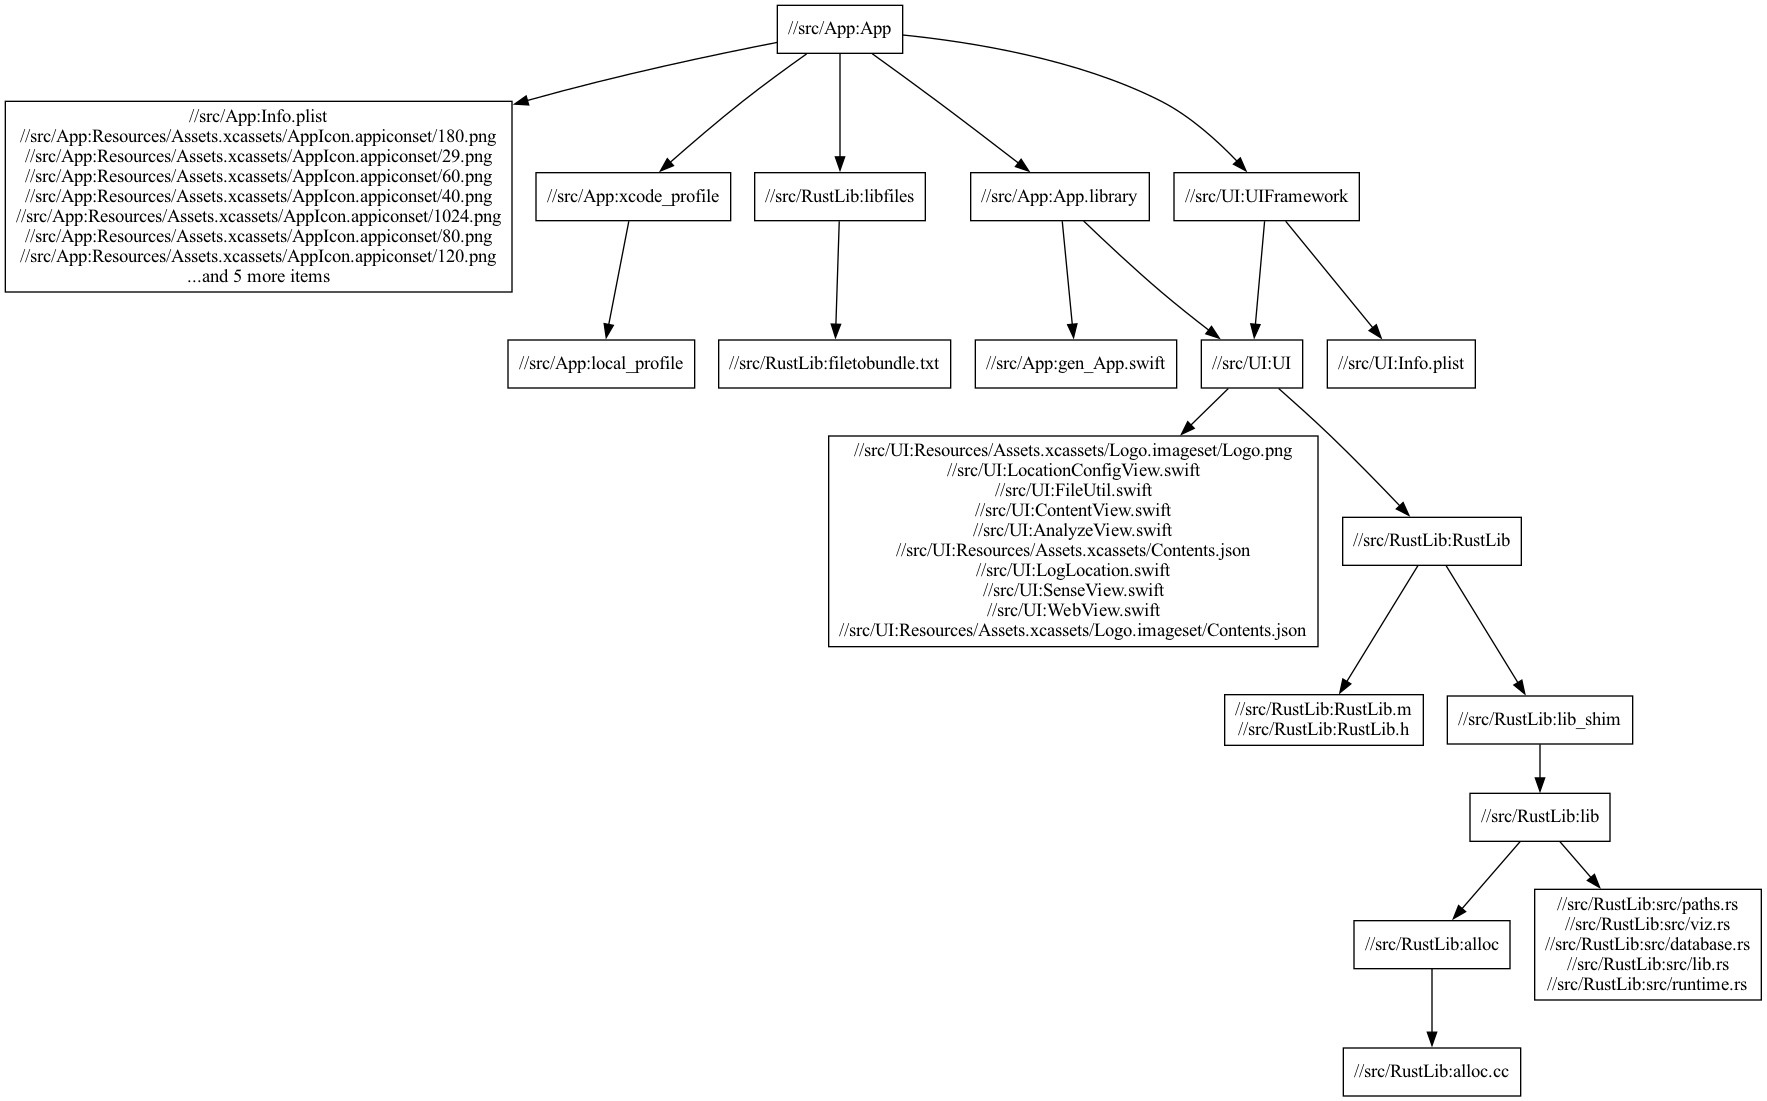
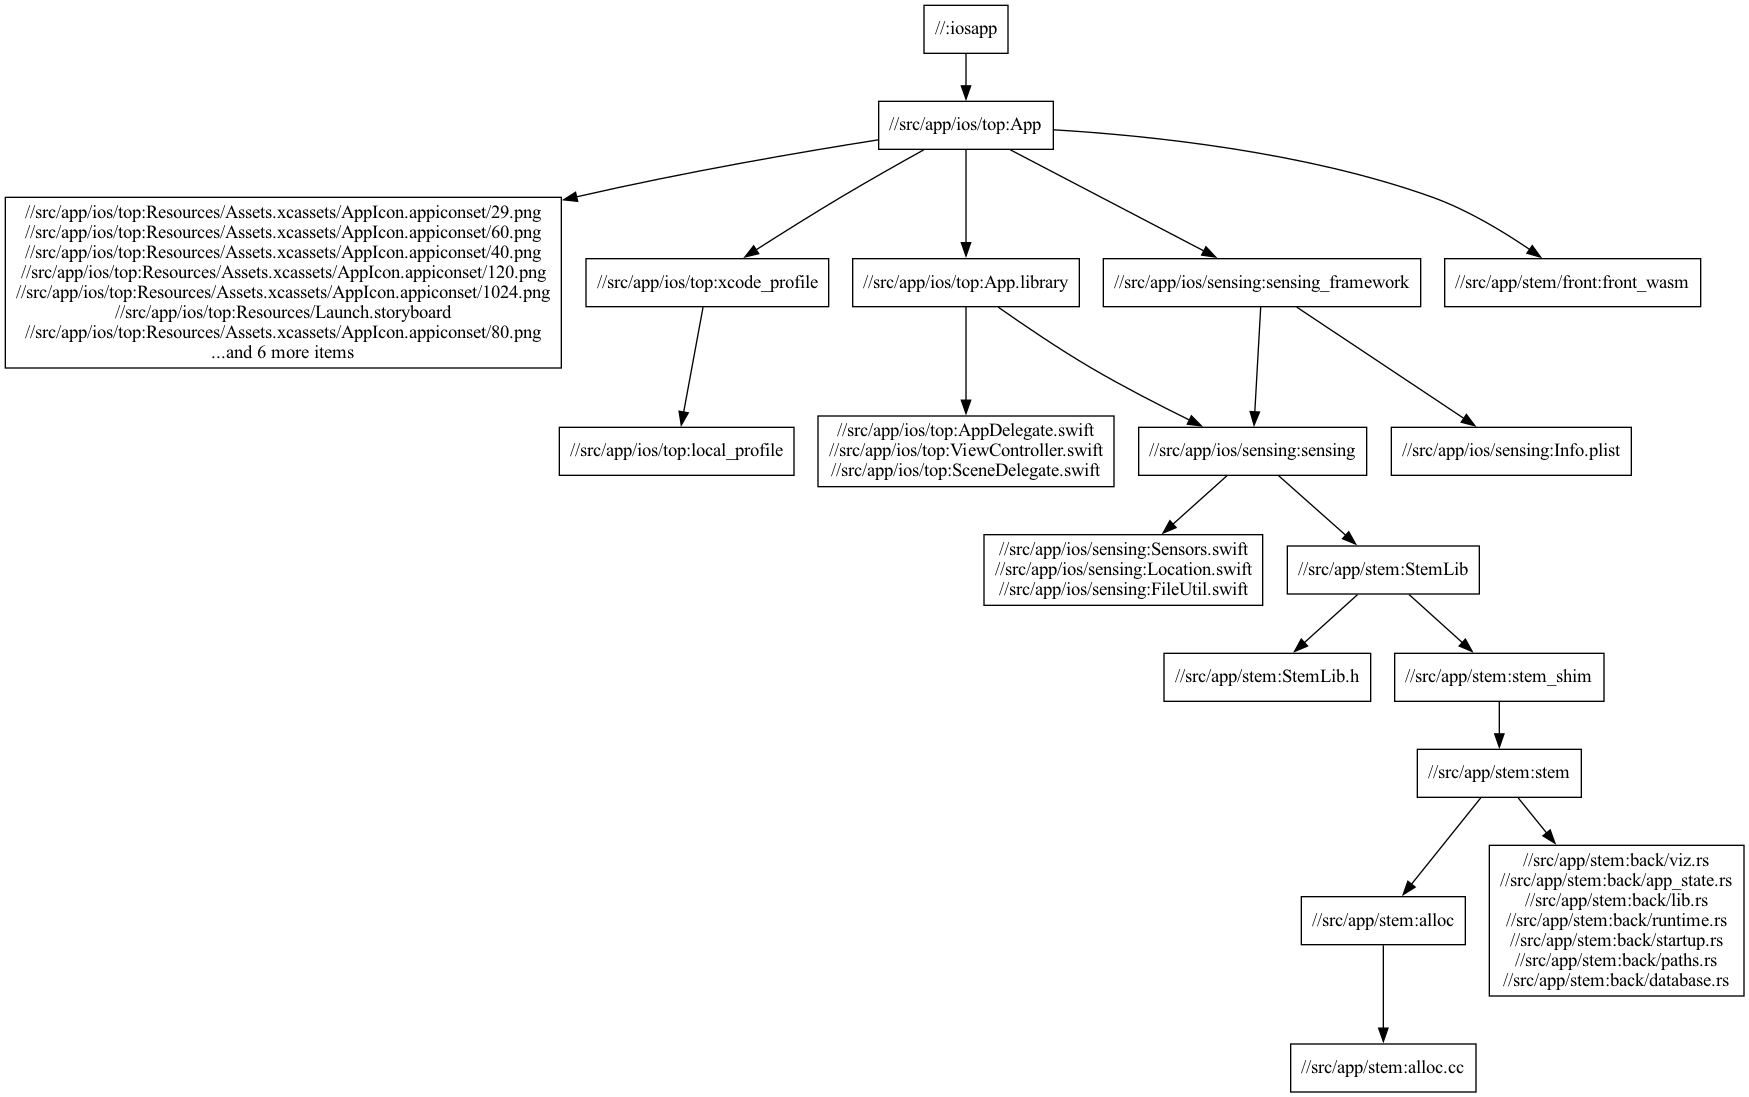
dev runner now copies dist.zip correctly

Changed region(s): [[0.0, 0.0, 1.0, 0.8988], [0.741, 0.9298, 0.8645, 1.0], [0.8336, 0.217, 0.9571, 0.2789]]

diff --git a/src/app/stem/dev/main.rs b/src/app/stem/dev/main.rs
@@ -1,5 +1,8 @@
 //! Runs the app backend and frontend locally
 
+use std::fs;
+use std::os::unix::fs::PermissionsExt;
+
 use tokio::signal::unix::{signal, SignalKind};
 
 extern crate stem;
@@ -13,20 +16,22 @@ async fn main() {
         Some(dirs[2].clone()),
         Some(dirs[3].clone()),
     );
-    // copy our bundle into the expected location
+
+    // Copy our bundle into the expected location
     let bundle_path = "src/app/stem/front/dist.zip";
-    println!("Bundle exists: {}", std::fs::metadata(bundle_path).is_ok());
-
-    //DEBUG
-    let paths = std::fs::read_dir("dev_instance/Bundle").unwrap();
-    for path in paths {
-        println!("Name: {}", path.unwrap().path().display())
-    }
-
     let dest = "dev_instance/Bundle/dist.zip";
+    println!("Bundle exists: {}", fs::metadata(bundle_path).is_ok());
+    println!("Copying...");
+    // This will fail if we didn't set writable permissions last time.
+    fs::copy(bundle_path, dest).unwrap();
+
+    // dist.zip is a genrule output, so it is read-only by default. We change it
+    // to writable so that future invocations of fs::copy will work if the
+    // sandbox is not cleared
+    fs::set_permissions(dest, fs::Permissions::from_mode(0o666)).unwrap();
     println!(
-        "Copy over success: {}",
-        std::fs::copy(bundle_path, dest).is_ok()
+        "Copied and set dist.zip permissions to: {:#o} (hopefully 0o100666)",
+        fs::metadata(dest).unwrap().permissions().mode()
     );
 
     // Finish startup now that our bundle is in the right spot
@@ -47,4 +52,5 @@ async fn main() {
     println!("Shutting down the server gracefully");
     // `true` tells actix to do a graceful shutdown
     server_handle.stop(true).await;
+    println!("Server shut down, exiting.");
 }

diff --git a/README.md b/README.md
@@ -76,8 +76,8 @@
                 at this repo: https://github.com/mjpauly/plotly/
 
 - Swift ([docs](https://docs.swift.org/swift-book/LanguageGuide/TheBasics.html))
-    - Language that the UI and sensing modules are written in.
-    - Apple Swift APIs used include SwiftUI, CoreLocation.
+    - Language that the sensing modules are written in.
+    - Apple Swift APIs used include CoreLocation.
 
 ## Dev Flow
 
@@ -87,6 +87,15 @@ Some tools used come from the system rather than a Bazel toolchain. This is a
 temporary workaround where the Bazel toolchain was challenging to implement.
 These need to be installed separately.
 
+- Bazel: build system for the project
+    - `brew install bazelisk`
+    - Bazelisk is the launcher for Bazel. It does stuff like discover the
+        desired bazel version to run from the `.bazelversion` file in the repo
+        root.
+- iBazel: tool for automatically rerunning a Bazel command when the sources
+    change.
+    - `brew install ibazel`
+    - Use it just like bazel but replace `bazel` with `ibazel`.
 - Trunk: used to build the frontend webassembly application
     - First install Rust onto your system, then do
         `cargo install --locked --version 0.16.0 trunk`
@@ -102,6 +111,13 @@ bazel run //:iosapp
 ```
 
 ### Interactively Developing the UI
+
+Navigate to `src/app/stem` and run `ibazel run :dev`.
+
+Then open `localhost:8081` in a browser. In Firefox, the responsive web design
+mode lets you change the page aspect ratio to that of a phone (opt-cmd-M).
+
+#### Deprecated method for developing the UI (no backend)
 
 Navigate to `src/app/stem/front` and run these commands in separate terminals:
 
